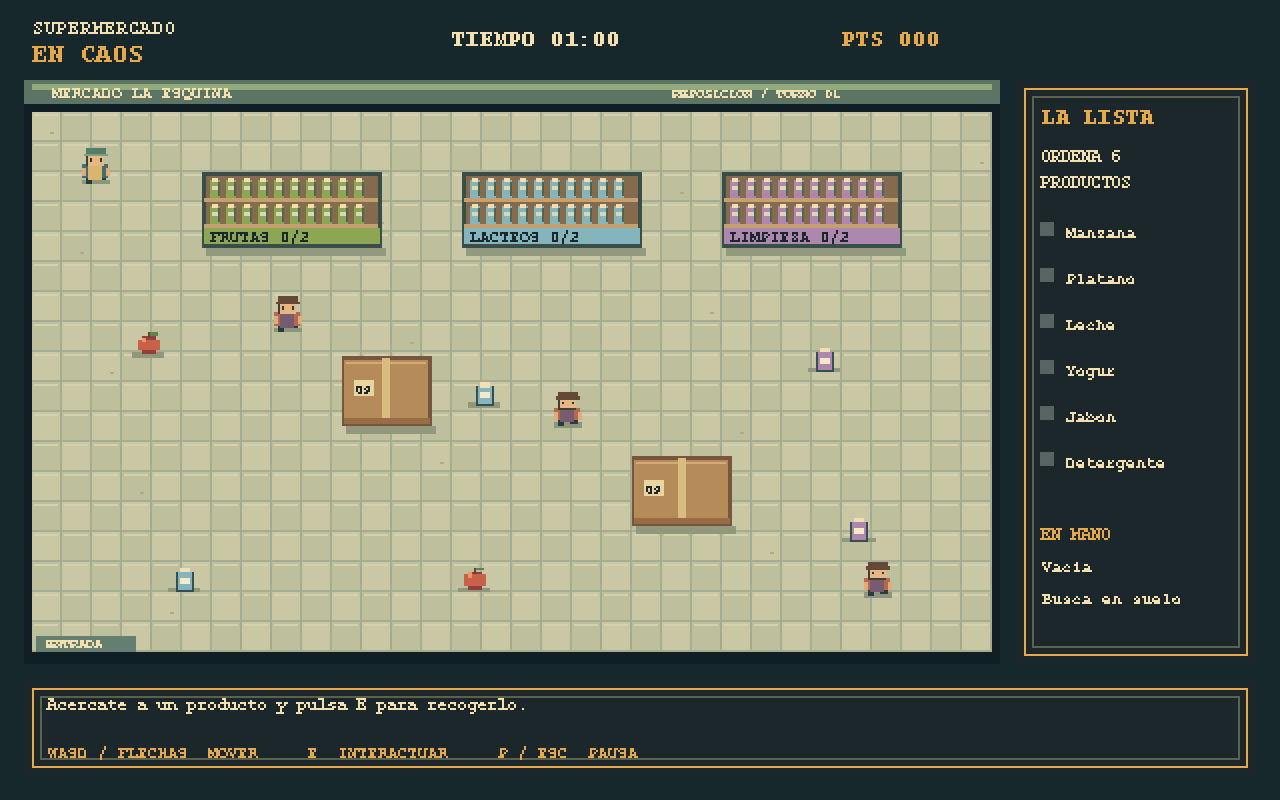
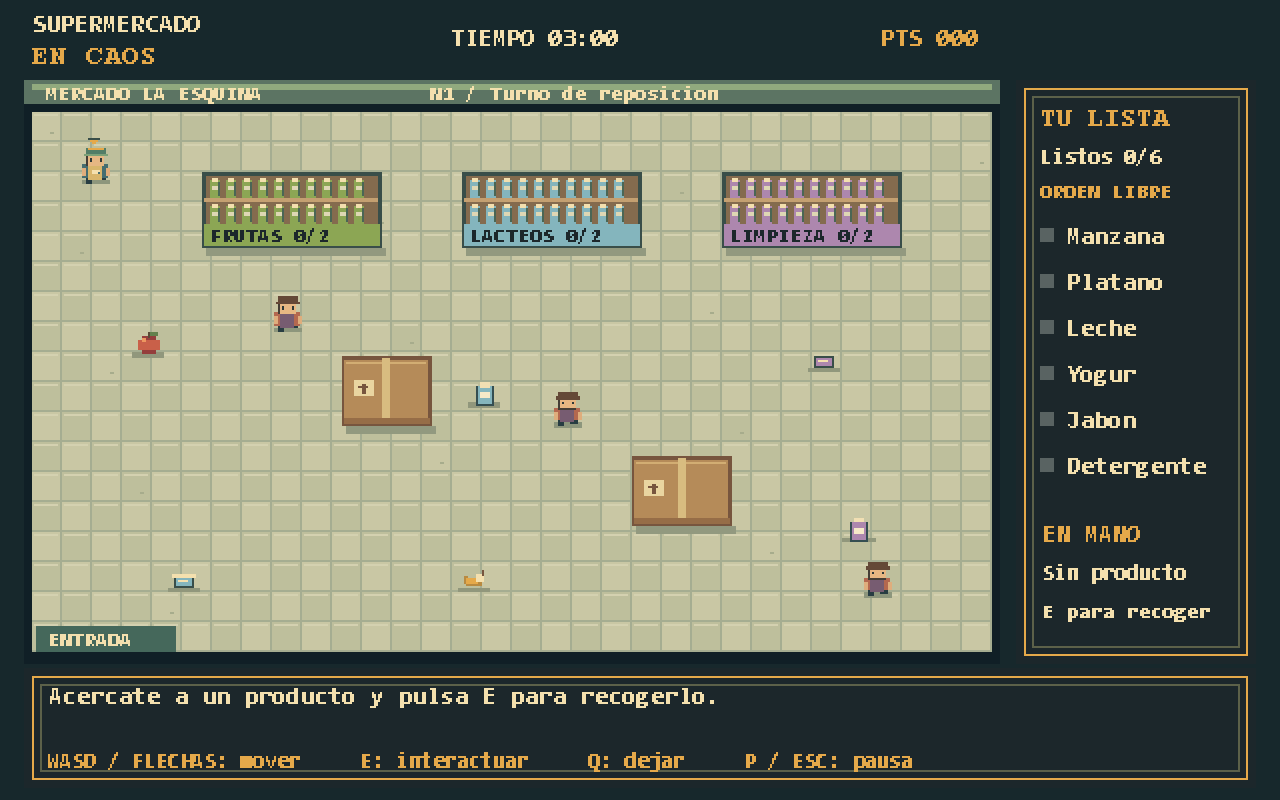
fix: recuperar la paleta y los rótulos pixelados de la tienda

diff --git a/src/com/supermercado/ui/GamePanel.java b/src/com/supermercado/ui/GamePanel.java
@@ -110,9 +110,18 @@ public final class GamePanel extends JPanel {
 
     private static final Color OSCURO = new Color(28,39,43), CREMA = new Color(244,224,174), ORO = new Color(229,169,74);
     private void rect(Graphics2D g, int x,int y,int w,int h,int rgb) {g.setColor(new Color(rgb));g.fillRect(x,y,w,h);}
-    private void texto(Graphics2D g,String t,int x,int y,int size,Color c) {g.setColor(c);g.setFont(new Font(Font.SANS_SERIF,Font.BOLD,size));g.drawString(t,x,y);}
+    // Monoespaciada de trazo sencillo para las etiquetas; titulos con la fuente original.
+    private static final Font CUERPO = fuenteCuerpo();
+    private static Font fuenteCuerpo() {
+        Font consola = new Font("Consolas", Font.BOLD, 12);
+        return "Consolas".equalsIgnoreCase(consola.getFamily()) ? consola : new Font(Font.MONOSPACED, Font.BOLD, 12);
+    }
+    private Font fuente(int size) {
+        return size >= 14 ? new Font(Font.MONOSPACED, Font.BOLD, size) : CUERPO.deriveFont((float) size);
+    }
+    private void texto(Graphics2D g,String t,int x,int y,int size,Color c) {g.setColor(c);g.setFont(fuente(size));g.drawString(t,x,y);}
     private void centrado(Graphics2D g, String t, int y, int size, Color c) {
-        g.setFont(new Font(Font.SANS_SERIF, Font.BOLD, size));
+        g.setFont(fuente(size));
         texto(g, t, (640 - g.getFontMetrics().stringWidth(t)) / 2, y, size, c);
     }
     private void marco(Graphics2D g,int x,int y,int w,int h) {
@@ -120,10 +129,14 @@ public final class GamePanel extends JPanel {
     }
     @Override protected void paintComponent(Graphics graphics) {
         super.paintComponent(graphics);
-        // Solo el arte se amplifica por vecino cercano. El texto se dibuja despues, a resolucion de ventana.
+        // Dibujar el fotograma completo en la cuadricula del pixel art.
         Graphics2D g=escena.createGraphics();
+        g.setRenderingHint(RenderingHints.KEY_TEXT_ANTIALIASING, RenderingHints.VALUE_TEXT_ANTIALIAS_OFF);
         rect(g,0,0,640,400,0x17282c);
         mundo(g);
+        etiquetasMapa(g);
+        hud(g);
+        if (juego.getEstado() != Juego.Estado.JUGANDO) pantalla(g);
         g.dispose();
         Graphics2D out=(Graphics2D)graphics.create();
         out.setColor(OSCURO);out.fillRect(0,0,getWidth(),getHeight());
@@ -131,29 +144,21 @@ public final class GamePanel extends JPanel {
         double escala=Math.min(getWidth()/640.0,getHeight()/400.0);
         int w=(int)(640*escala),h=(int)(400*escala);
         out.drawImage(escena,(getWidth()-w)/2,(getHeight()-h)/2,w,h,null);
-        out.translate((getWidth()-w)/2, (getHeight()-h)/2);
-        out.scale(w / 640.0, h / 400.0);
-        out.setRenderingHint(RenderingHints.KEY_TEXT_ANTIALIASING, RenderingHints.VALUE_TEXT_ANTIALIAS_ON);
-        out.setRenderingHint(RenderingHints.KEY_FRACTIONALMETRICS, RenderingHints.VALUE_FRACTIONALMETRICS_ON);
-        etiquetasMapa(out);
-        hud(out);
-        if(juego.getEstado()!=Juego.Estado.JUGANDO) pantalla(out);
         out.dispose();
     }
     private void mundo(Graphics2D g) {
         // Los limites visuales del suelo coinciden con los del modelo (960 x 540).
         rect(g,12,52,488,280,0x101f26);
-        boolean segundo = juego.getNivelActual() == 2;
-        rect(g,16,56,480,270,segundo ? 0x859fa7 : 0xa5ad91);
+        rect(g,16,56,480,270,0xa5ad91);
         for(int y=0;y<18;y++)for(int x=0;x<32;x++) {
             int px=16+x*15,py=56+y*15;
-            rect(g,px,py,14,14,((x+y)%2==0)?(segundo?0xb7cbd0:0xc9c7a4):(segundo?0xa7bfc6:0xbebf9c));
-            rect(g,px+1,py+1,12,1,segundo?0xcfe0e0:0xd4d1b0);
+            rect(g,px,py,14,14,((x+y)%2==0)?0xc9c7a4:0xbebf9c);
+            rect(g,px+1,py+1,12,1,0xd4d1b0);
             if((x*13+y*7)%41==0)rect(g,px+9,py+10,2,1,0xa7ac8c);
         }
         // Fachada y rotulos quedan fuera de la zona transitable.
         rect(g,12,40,488,12,0x5c7463);rect(g,16,42,480,3,0x91aa7e);
-        Graphics2D m=(Graphics2D)g.create();m.translate(16,56);m.scale(.5,.5);
+        Graphics2D m=(Graphics2D)g.create();m.translate(16,56);m.scale(.5,.5);m.clipRect(0,0,Nivel.ANCHO,Nivel.ALTO);
         for(Obstaculo o:juego.getNivel().getObstaculos()) estante(m,o);
         for(Producto p:juego.getNivel().getProductos())if(p.estaDisponible()) {
             int x=(int)p.getX(),y=(int)p.getY();
@@ -167,19 +172,26 @@ public final class GamePanel extends JPanel {
         rect(g,18,313,70,13,0x45685b);
     }
     private void etiquetasMapa(Graphics2D g) {
-        texto(g,"MERCADO LA ESQUINA",23,50,10,Color.WHITE);
-        texto(g,"ENTRADA",24,323,10,Color.WHITE);
+        texto(g,"MERCADO LA ESQUINA",23,50,10,CREMA);
+        String turno = "N" + juego.getNivelActual() + " / " + juego.getNivel().getConfiguracion().getIdentificacion();
+        texto(g,turno,215,50,10,CREMA);
+        texto(g,"ENTRADA",24,323,10,CREMA);
         for (Obstaculo obstaculo : juego.getNivel().getObstaculos()) {
             if (obstaculo instanceof Estante e) {
                 int x = 16 + (int)e.getX()/2, y = 56 + ((int)e.getY()+e.getAlto())/2;
-                g.setColor(OSCURO); g.fillRect(x+1,y-14,e.getAncho()/2-2,14);
-                texto(g,e.getCategoria()+" "+e.getRecibidos().size()+"/"+cantidadCategoria(e.getCategoria()),x+4,y-3,10,Color.WHITE);
+                rect(g,x+1,y-12,e.getAncho()/2-2,11,color(e.getCategoria()));
+                texto(g,e.getCategoria()+" "+e.getRecibidos().size()+"/"+cantidadCategoria(e.getCategoria()),x+4,y-3,10,OSCURO);
             }
         }
         Producto cercano = juego.getNivel().productoCercano();
         if (cercano != null && juego.getNivel().getJugador().getProductoEnMano() == null) {
             int x=16+(int)cercano.getX()/2, y=56+(int)cercano.getY()/2;
-            g.setColor(OSCURO);g.fillRect(x-2,y-15,18,13);texto(g,"E",x+3,y-4,11,Color.WHITE);
+            String aviso = "E " + cercano.getNombre();
+            g.setFont(fuente(11));
+            int ancho = g.getFontMetrics().stringWidth(aviso) + 8;
+            x = Math.max(16, Math.min(x - 2, 496 - ancho));
+            y = Math.max(70, y);
+            g.setColor(OSCURO); g.fillRect(x,y-14,ancho,13); texto(g,aviso,x+4,y-4,11,CREMA);
         }
         for (Personaje p : juego.getNivel().getPersonajes()) {
             if (p instanceof Cliente cliente && juego.getEstado()==Juego.Estado.JUGANDO && cliente.estaDescansando()) {
@@ -210,11 +222,20 @@ public final class GamePanel extends JPanel {
             rect(g,x,y,w,h,0x77553e);rect(g,x+3,y+3,w-6,h-10,0xb58b59);
             rect(g,x+5,y+5,w-10,3,0xd2ad73);rect(g,x+w/2-4,y+2,8,h-6,0xd8bc80);
             rect(g,x+12,y+23,21,17,0xe9d5a0);
+            rect(g,x+20,y+27,4,10,0x77553e);rect(g,x+17,y+29,10,3,0x77553e);
             rect(g,x+2,y+h-9,w-4,7,0x966d47);
         }
     }
     private void producto(Graphics2D g,Producto p,int x,int y) {
-        if(Producto.FRUTAS.equals(p.getCategoria())) {
+        if (p.getNombre().equals("Platano")) {
+            rect(g,x+2,y+9,5,8,0xb88a41); rect(g,x+5,y+13,15,7,0xb88a41);
+            rect(g,x+5,y+11,12,6,0xe5a94a); rect(g,x+15,y+8,7,7,0xf4e0ae);
+            rect(g,x+20,y+4,3,6,0x77553e);
+        } else if (p.getNombre().equals("Yogur") || p.getNombre().equals("Jabon")) {
+            rect(g,x+2,y+10,21,12,0x394e49); rect(g,x+4,y+11,17,9,color(p.getCategoria()));
+            rect(g,x+7,y+13,10,3,0xf4e0ae);
+            if (p.getNombre().equals("Yogur")) rect(g,x+1,y+7,23,4,0xf4e0ae);
+        } else if(Producto.FRUTAS.equals(p.getCategoria())) {
             rect(g,x+6,y+5,15,18,0x943e3c);rect(g,x+3,y+8,21,11,0xc96049);
             rect(g,x+7,y+6,4,5,0xed9760);rect(g,x+12,y+1,3,6,0x594936);rect(g,x+15,y+1,7,3,0x63814d);
         } else {
@@ -226,13 +247,22 @@ public final class GamePanel extends JPanel {
         int x=(int)p.getX(),y=(int)p.getY();boolean j=p instanceof Jugador;
         rect(g,x+2,y+26,28,5,0x8d967c);
         if(j&&((Jugador)p).esInmune()&&((int)(animacion*12)%2==0))return;
+        if (j) {
+            rect(g,x+9,y-15,12,2,0x394e49);rect(g,x+11,y-13,8,2,0xe5a94a);rect(g,x+13,y-11,4,2,0xe5a94a);
+        }
         int paso=(Math.abs(p.getDesplazamientoX())+Math.abs(p.getDesplazamientoY())>.01)?((int)(animacion*9)%2)*3:0;
         rect(g,x+6,y+22,7,8-paso,0x283d42);rect(g,x+19,y+22,7,5+paso,0x283d42);
         rect(g,x+3,y+11,25,13,j?0x456d70:0xb4684f);
         rect(g,x+9,y+13,13,13,j?0xd8b66c:0x775c71);
+        if (j) {
+            // Marca del repositor en el delantal y ribete claro de la gorra.
+            rect(g,x+12,y+17,8,4,0xf4e0ae);
+            rect(g,x+18,y+18,2,2,0x456d70);
+        }
         rect(g,x+2,y+15,5,8,0xdfad7c);rect(g,x+26,y+15,4,8,0xdfad7c);
         rect(g,x+7,y-4,18,17,0x443d36);rect(g,x+8,y,16,12,0xe6b783);
         rect(g,x+6,y-5,20,6,j?0x527d67:0x644837);rect(g,x+5,y,23,3,j?0x7ca178:0x644837);
+        if (j) rect(g,x+8,y-5,16,2,0xe5a94a);
         boolean espalda=p.getDesplazamientoY()<0;
         if(espalda)rect(g,x+8,y+3,16,7,0x574738);
         else {rect(g,x+11,y+5,2,3,0x2e3938);rect(g,x+20,y+5,2,3,0x2e3938);}
@@ -247,13 +277,13 @@ public final class GamePanel extends JPanel {
     }
     private void hud(Graphics2D g) {
 
-        texto(g,"SUPERMERCADO EN CAOS",16,18,13,CREMA);
-        texto(g,"NIVEL "+juego.getNivelActual()+" - "+juego.getNivel().getConfiguracion().getIdentificacion(),16,34,12,ORO);
+        texto(g,"SUPERMERCADO",16,16,13,CREMA);
+        texto(g,"EN CAOS",16,32,15,ORO);
         int t=(int)Math.ceil(juego.getTiempoRestante());
-        texto(g,getTextoTiempo(),364,21,13,t<=30?new Color(255,139,106):Color.WHITE);
-        texto(g,"PUNTOS "+juego.getPuntuacion(),521,23,12,ORO);
+        texto(g,getTextoTiempo(),225,23,13,t<=30?new Color(255,139,106):CREMA);
+        texto(g,"PTS "+String.format("%03d",juego.getPuntuacion()),440,23,13,ORO);
         marco(g,508,40,120,292);
-        texto(g,"TU LISTA",520,63,14,ORO);texto(g,"Entregados "+juego.getNivel().getEntregados()+"/"+juego.getNivel().getObjetivoEntregas(),520,82,11,Color.WHITE);
+        texto(g,"TU LISTA",520,63,14,ORO);texto(g,"Listos "+juego.getNivel().getEntregados()+"/"+juego.getNivel().getObjetivoEntregas(),520,82,11,CREMA);
         Producto siguiente = juego.getNivel().getSiguienteProducto();
         texto(g,siguiente == null ? (juego.getNivel().estaCompletado()?"COMPLETADO":"ORDEN LIBRE") : "SIGUE " + siguiente.getCategoria(),520,99,10,ORO);
         java.util.List<Producto> lista=juego.getNivel().getProductos();
@@ -266,23 +296,23 @@ public final class GamePanel extends JPanel {
             Producto p=lista.get(i);int y=122+(i-inicio)*23;
 
             rect(g,520,y-8,7,7,p.isEntregado()?0x8ca654:0x596362);
-            texto(g,p.getNombre(),533,y,11,Color.WHITE);
+            texto(g,p.getNombre(),533,y,12,CREMA);
         }
         texto(g,"EN MANO",521,271,12,ORO);
         Producto p=juego.getNivel().getJugador().getProductoEnMano();
-        texto(g,p==null?"Sin producto":p.getNombre(),521,290,11,Color.WHITE);
+        texto(g,p==null?"Sin producto":p.getNombre(),521,290,11,CREMA);
         texto(g,p==null?"E para recoger":p.getCategoria(),521,309,10,CREMA);
         marco(g,12,334,616,60);
         String mensaje=juego.getMensaje();
-        // Ajustar por ancho real de la fuente; las letras se dibujan a resolucion nativa.
+        // Medir con la misma fuente utilizada para dibujar el mensaje.
         int linea=0;String actual="";
-        g.setFont(new Font(Font.SANS_SERIF,Font.BOLD,11));
+        g.setFont(fuente(12));
         for(String palabra:mensaje.split(" ")) {
-            if(g.getFontMetrics().stringWidth(actual+palabra)>590){texto(g,actual,24,352+linea*14,11,Color.WHITE);linea++;actual="";}
+            if(g.getFontMetrics().stringWidth(actual+palabra)>590){texto(g,actual,24,352+linea*14,12,CREMA);linea++;actual="";}
             actual+=palabra+" ";
         }
-        texto(g,actual,24,352+linea*14,11,Color.WHITE);
-        texto(g,"WASD / FLECHAS: mover     E: interactuar     Q: dejar     P / ESC: pausa",24,384,10,ORO);
+        texto(g,actual,24,352+linea*14,12,CREMA);
+        texto(g,"WASD / FLECHAS: mover     E: interactuar     Q: dejar     P / ESC: pausa",24,384,11,ORO);
     }
     private void pantalla(Graphics2D g) {
         g.setColor(new Color(14,25,29,190));g.fillRect(0,0,640,400);

diff --git a/docs/GUIA_JUAN.md b/docs/GUIA_JUAN.md
@@ -149,14 +149,14 @@ los cambios es necesario para explicarlos y atribuir el trabajo con honestidad.
 
 ## Correccion de legibilidad y dificultad tras probar
 
-La version anterior dibujaba letras pequenas dentro de la imagen de 640x400 y las ampliaba;
-las etiquetas del mapa ademas pasaban por una escala de 0.5. Esto degradaba las formas.
-Ahora paintComponent dibuja solo los sprites y el suelo en esa imagen, la amplia por vecino
-mas cercano y dibuja despues etiquetasMapa, HUD y pantallas directamente sobre Graphics2D
-de la ventana. Se utiliza SansSerif con suavizado, tamanos mayores y ajuste de mensajes por
-FontMetrics. Los controles, reglas y coordenadas del modelo son los mismos.
+El mapa del segundo nivel conserva su distribución y cuatro clientes. Dos patrullan en
+vertical, con una salida hacia arriba y otra hacia abajo. El tiempo inicial es de 135 segundos.
 
-El segundo mapa usa otro tono de suelo para reconocer la transicion. El titulo del nivel es
-grande y la victoria del primero indica ENTER para ir al nivel 2. Se revisaron capturas a
-1280x800 y 800x500. Las patrullas arriba/abajo se comprueban por su desplazamiento real;
-el nuevo recorrido tambien sigue verificando accesibilidad, reloj, victoria y reintento.
+La presentación recupera la paleta crema y verde de la tienda original. GamePanel dibuja
+el mundo, los rótulos y el HUD sobre la misma imagen de 640 × 400 y la amplía con vecino
+más cercano. Los textos monoespaciados en negrita se dibujan sin suavizado. Los mensajes se
+parten por palabras según su ancho en píxeles. Las bandas de los estantes indican su categoría.
+La marca dorada identifica al repositor y la etiqueta E muestra el nombre del producto cercano.
+
+Se revisaron capturas de ambos niveles y del nivel 2 en una ventana de 800 × 500. La prueba
+de campaña incluye el paso de nivel con Enter, las patrullas verticales, la victoria y el reintento.

diff --git a/README.md b/README.md
@@ -75,7 +75,7 @@ El juego cuenta con 6 productos repartidos en 3 categorías bien definidas:
 * **Gráficos Originales:** Estilo pixel art original dibujado mediante Java2D (baldosas, mobiliario, productos y personajes) con una paleta limitada y coherente.
 * **Efectos Visuales:** Animación de pasos, orientación vertical, flotación de productos e indicadores de parpadeo para la inmunidad.
 * **Atlas de Texturas:** El archivo `atlas PNG` ubicado en la carpeta `assets` documenta las formas originales. Sin embargo, el juego drena y dibuja directamente desde código, por lo que no requiere archivos externos durante la ejecución.
-* **Alcance:** Sin audio. Nivel 1 original y nivel 2 Pasillo concurrido. No hay configuraciones de producto para niveles 3–6. El tiempo de 135 segundos es un valor inicial que el equipo debe ajustar jugando. El texto de menus, HUD y etiquetas se dibuja a resolucion de ventana con suavizado; solo el arte del mundo se escala como pixel art.
+* **Alcance:** Sin audio. Nivel 1 original y nivel 2 Pasillo concurrido. No hay configuraciones de producto para niveles 3–6. El tiempo de 135 segundos es un valor inicial que el equipo debe ajustar jugando. Las letras monoespaciadas, los paneles dorados, las bandas de cada estante y las baldosas cálidas se dibujan en una escena de 640 × 400. El escalado por vecino más cercano conserva los bordes de los píxeles.
 
 ---
 
